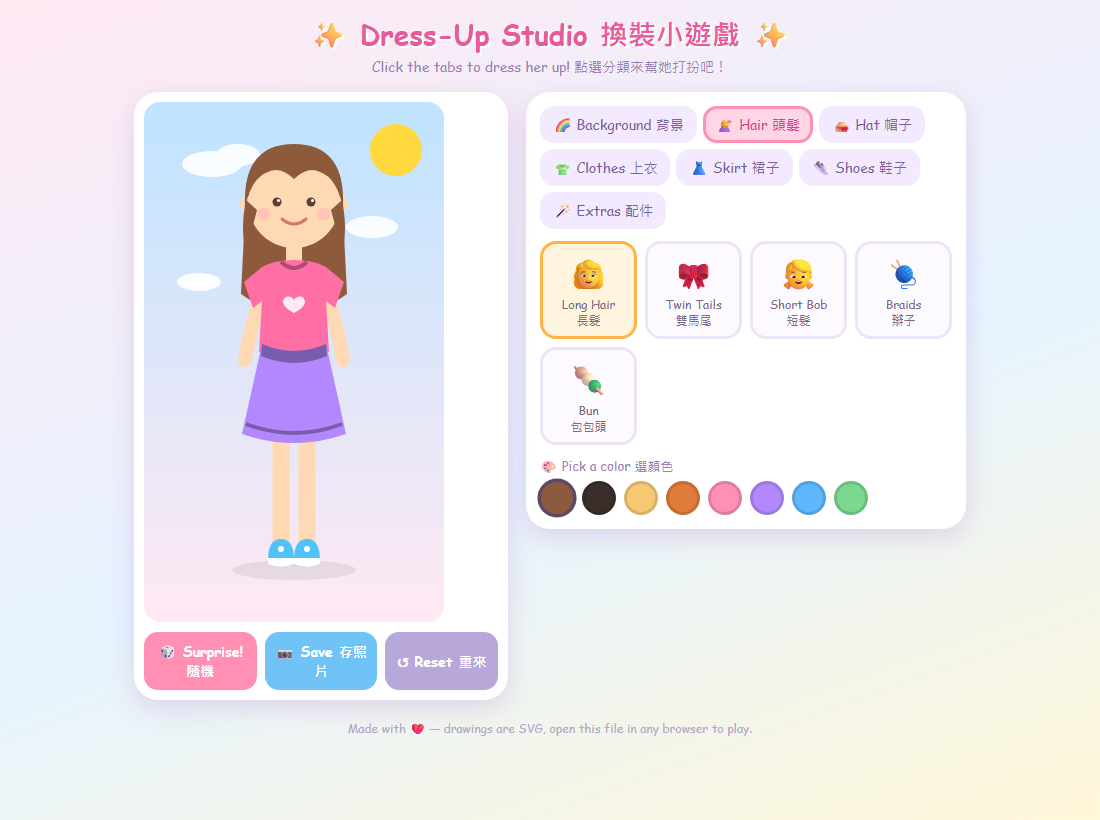
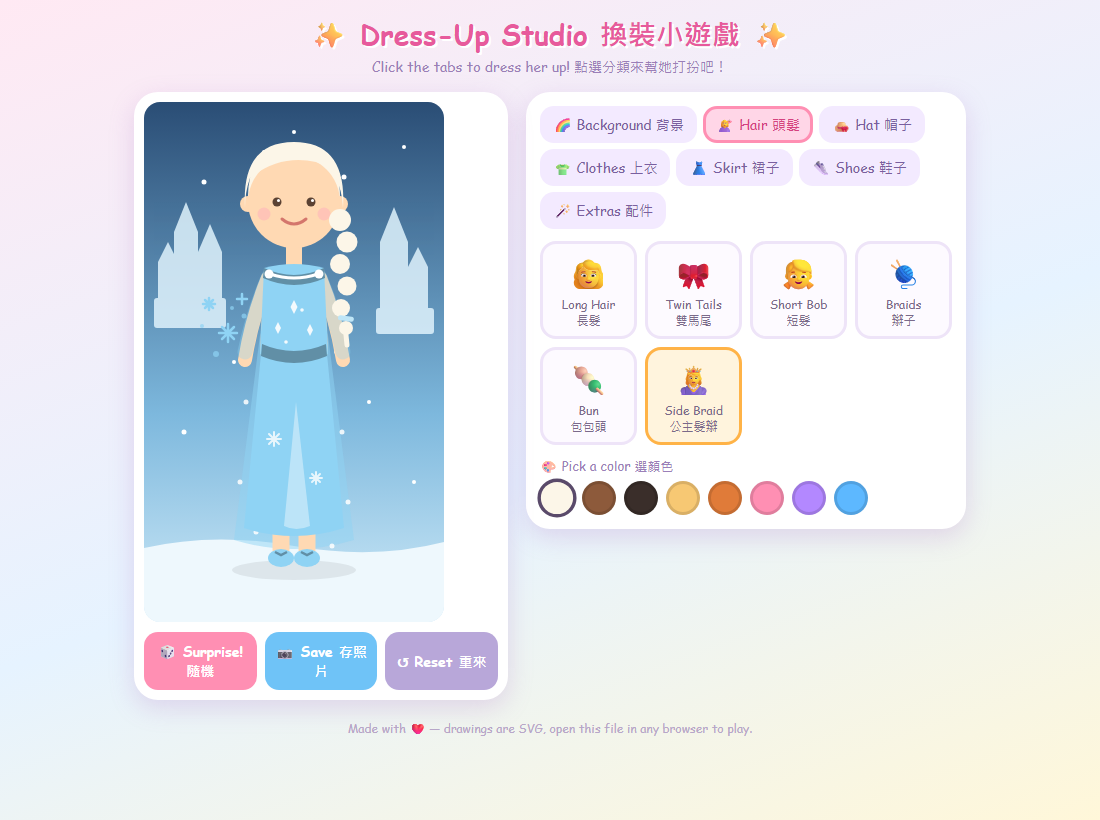
Add Ice Queen (Elsa-style) outfit set and make it the default look
New items: Side Braid hair, Ice Queen top, Ice Gown skirt, Snow Cape,
Ice Magic accessory, and Ice Castle background. Adds ice blue and
platinum to the color palettes.

diff --git a/dress-up-studio/index.html b/dress-up-studio/index.html
@@ -201,8 +201,8 @@ const BANGS = `
   <path d="M102 98 Q96 128 102 150 L113 108 Z" fill="{{c}}"/>
   <path d="M198 98 Q204 128 198 150 L187 108 Z" fill="{{c}}"/>`;
 
-const HAIR_COLORS = ['#8d5a3b','#3a2e2a','#f7c873','#e07b39','#ff8fb3','#b388ff','#5db8ff','#7bd88f'];
-const COLORS = ['#ff6fa5','#ff9f43','#ffd93d','#7bd88f','#4fc3f7','#b388ff','#f06292','#5c6bc0','#ffffff','#37474f'];
+const HAIR_COLORS = ['#fcf6e8','#8d5a3b','#3a2e2a','#f7c873','#e07b39','#ff8fb3','#b388ff','#5db8ff'];
+const COLORS = ['#8fd3f4','#ff6fa5','#ff9f43','#ffd93d','#7bd88f','#4fc3f7','#b388ff','#f06292','#5c6bc0','#ffffff','#37474f'];
 
 const CATS = [
   {
@@ -260,6 +260,26 @@ const CATS = [
         <g><circle cx="70" cy="130" r="4" fill="#ff6fa5"/><circle cx="240" cy="110" r="4" fill="#7bd88f"/>
         <circle cx="35" cy="220" r="4" fill="#ffd93d"/><circle cx="268" cy="230" r="4" fill="#ff9f43"/>
         <circle cx="60" cy="320" r="4" fill="#b388ff"/><circle cx="245" cy="300" r="4" fill="#4fc3f7"/></g>` },
+      { name: 'Ice Castle', zh: '冰雪城堡', emoji: '🏰', svg: `
+        <defs><linearGradient id="bgIce" x1="0" y1="0" x2="0" y2="1">
+          <stop offset="0" stop-color="#2a4d75"/><stop offset=".6" stop-color="#7db8dd"/><stop offset="1" stop-color="#cfeaf8"/>
+        </linearGradient></defs>
+        <rect width="300" height="520" fill="url(#bgIce)"/>
+        <g fill="#dff2fc" opacity=".85">
+          <path d="M30 200 L30 130 L42 100 L54 130 L54 200 Z"/>
+          <path d="M54 200 L54 150 L66 122 L78 150 L78 200 Z"/>
+          <path d="M14 200 L14 160 L24 140 L34 160 L34 200 Z"/>
+          <rect x="10" y="196" width="72" height="30" rx="3"/>
+          <path d="M236 210 L236 140 L250 105 L264 140 L264 210 Z"/>
+          <path d="M264 210 L264 165 L274 145 L284 165 L284 210 Z"/>
+          <rect x="232" y="206" width="58" height="26" rx="3"/>
+        </g>
+        <path d="M0 446 Q70 430 150 444 Q230 458 300 440 L300 520 L0 520 Z" fill="#eef8fd"/>
+        <g fill="#ffffff">
+          <circle cx="60" cy="80" r="2.5"/><circle cx="120" cy="50" r="2"/><circle cx="200" cy="75" r="2.5"/>
+          <circle cx="260" cy="45" r="2"/><circle cx="90" cy="260" r="2"/><circle cx="225" cy="300" r="2"/>
+          <circle cx="40" cy="330" r="2.5"/><circle cx="270" cy="380" r="2"/><circle cx="150" cy="30" r="2"/>
+        </g>` },
     ]
   },
   {
@@ -286,6 +306,15 @@ const CATS = [
         <path d="M104 95 Q104 44 150 44 Q196 44 196 95 Q150 116 104 95 Z" fill="{{c}}"/>
         <circle cx="150" cy="33" r="19" fill="{{c}}"/>
         <rect x="137" y="44" width="26" height="7" rx="3.5" fill="#ff5d8f"/>` },
+      { name: 'Side Braid', zh: '公主髮辮', emoji: '👸', svg: `
+        <path d="M101 106 Q97 40 150 40 Q203 40 199 106 Q197 68 172 60 Q136 52 106 76 Q101 90 101 106 Z" fill="{{c}}"/>
+        <g fill="{{c}}">
+          <circle cx="196" cy="118" r="11"/><circle cx="203" cy="140" r="10.5"/><circle cx="196" cy="162" r="10"/>
+          <circle cx="203" cy="184" r="9.5"/><circle cx="197" cy="206" r="9"/><circle cx="202" cy="226" r="7"/>
+        </g>
+        <path d="M202 233 L203 243" stroke="{{c}}" stroke-width="5" stroke-linecap="round"/>
+        <rect x="194" y="214" width="16" height="5" rx="2.5" fill="#bfe6f7" transform="rotate(8 202 216)"/>`, back: `
+        <path d="M104 95 Q104 44 150 44 Q196 44 196 95 Q150 116 104 95 Z" fill="{{c}}"/>` },
     ]
   },
   {
@@ -354,6 +383,17 @@ const CATS = [
         <path d="M117 238 Q150 250 183 238 L183 246 Q174 257 163 248 Q156 258 150 248 Q144 258 137 248 Q126 257 117 246 Z" fill="{{c}}"/>
         <circle cx="150" cy="190" r="2.5" fill="{{cd}}"/><circle cx="150" cy="206" r="2.5" fill="{{cd}}"/><circle cx="150" cy="222" r="2.5" fill="{{cd}}"/>
         <path d="M141 164 L150 170 L159 164" stroke="{{cd}}" stroke-width="3.5" fill="none" stroke-linecap="round"/>` },
+      { name: 'Ice Queen', zh: '冰雪女王', emoji: '❄️', svg: `
+        <path d="M124 176 Q108 215 101 250" stroke="{{c}}" stroke-width="15" fill="none" stroke-linecap="round" opacity=".35"/>
+        <path d="M176 176 Q192 215 199 250" stroke="{{c}}" stroke-width="15" fill="none" stroke-linecap="round" opacity=".35"/>
+        <path d="M120 166 Q150 158 180 166 L184 252 Q150 264 116 252 Z" fill="{{c}}"/>
+        <path d="M120 166 Q150 180 180 166 L181 176 Q150 190 119 176 Z" fill="{{cd}}"/>
+        <g fill="#fff" opacity=".9">
+          <path d="M150 198 l3.5 7 -3.5 7 -3.5-7 z"/>
+          <path d="M134 220 l3 6 -3 6 -3-6 z"/>
+          <path d="M166 222 l3 6 -3 6 -3-6 z"/>
+          <circle cx="142" cy="240" r="1.8"/><circle cx="158" cy="208" r="1.8"/>
+        </g>` },
     ]
   },
   {
@@ -386,6 +426,14 @@ const CATS = [
         <path d="M118 242 L110 298 Q124 304 139 299 L148 264 L152 264 L161 299 Q176 304 190 298 L182 242 Q150 256 118 242 Z" fill="{{c}}"/>
         <path d="M118 242 Q150 256 182 242 L183 252 Q150 266 117 252 Z" fill="{{cd}}"/>
         <circle cx="150" cy="258" r="3" fill="{{cd}}"/>` },
+      { name: 'Ice Gown', zh: '冰雪長裙', emoji: '💙', svg: `
+        <path d="M118 242 L100 426 Q150 442 200 426 L182 242 Q150 256 118 242 Z" fill="{{c}}"/>
+        <path d="M152 300 L140 424 Q152 430 166 424 Z" fill="#ffffff" opacity=".4"/>
+        <g stroke="#ffffff" stroke-width="2" opacity=".8" fill="none" stroke-linecap="round">
+          <path d="M130 330 L130 344 M123 337 L137 337 M125 332 L135 342 M135 332 L125 342"/>
+          <path d="M172 370 L172 382 M166 376 L178 376 M168 372 L176 380 M176 372 L168 380"/>
+        </g>
+        <path d="M118 242 Q150 256 182 242 L183 254 Q150 268 117 254 Z" fill="{{cd}}"/>` },
     ]
   },
   {
@@ -459,16 +507,41 @@ const CATS = [
             <circle cx="110" cy="210" r="3.5"/><circle cx="190" cy="210" r="3.5"/>
           </g>
         </g>`, svg: `` },
+      { name: 'Snow Cape', zh: '雪花披風', emoji: '🌨️', back: `
+        <path d="M124 170 L176 170 L210 438 Q150 456 90 438 Z" fill="{{c}}" opacity=".5"/>
+        <g fill="#fff" opacity=".85">
+          <circle cx="102" cy="300" r="2.5"/><circle cx="198" cy="330" r="2.5"/><circle cx="96" cy="380" r="2.5"/>
+          <circle cx="204" cy="400" r="2.5"/><circle cx="112" cy="430" r="2.5"/><circle cx="188" cy="444" r="2.5"/>
+          <circle cx="108" cy="240" r="2"/><circle cx="192" cy="250" r="2"/>
+        </g>`, svg: `
+        <path d="M126 172 Q150 180 174 172" stroke="#fff" stroke-width="3" fill="none"/>
+        <circle cx="125" cy="172" r="4.5" fill="#fff"/><circle cx="175" cy="172" r="4.5" fill="#fff"/>` },
+      { name: 'Ice Magic', zh: '冰雪魔法', emoji: '✨', svg: `
+        <g stroke="{{c}}" stroke-width="2.5" fill="none" stroke-linecap="round">
+          <path d="M84 222 L84 240 M75 231 L93 231 M78 225 L90 237 M90 225 L78 237"/>
+          <path d="M65 196 L65 208 M59 202 L71 202 M61 198 L69 206 M69 198 L61 206"/>
+          <path d="M98 192 L98 202 M93 197 L103 197"/>
+        </g>
+        <g fill="{{c}}" opacity=".7">
+          <circle cx="72" cy="252" r="3"/><circle cx="100" cy="214" r="2.5"/><circle cx="58" cy="224" r="2"/><circle cx="88" cy="206" r="2"/>
+        </g>` },
     ]
   },
 ];
 
 // ---------------- game state ----------------
 let state = {};
+// she starts dressed as the Ice Queen ❄️ — press Reset to come back to this look
 function defaultState() {
-  const s = {};
-  for (const c of CATS) s[c.id] = { sel: c.multi ? [] : 0, color: c.def };
-  return s;
+  return {
+    bg:    { sel: 5, color: '#ffffff' },          // Ice Castle
+    hair:  { sel: 5, color: '#fcf6e8' },          // platinum Side Braid
+    hat:   { sel: 0, color: '#ffd93d' },          // no hat
+    top:   { sel: 5, color: '#8fd3f4' },          // Ice Queen top
+    skirt: { sel: 5, color: '#8fd3f4' },          // Ice Gown
+    shoes: { sel: 1, color: '#8fd3f4' },          // ballet flats
+    acc:   { sel: [6, 7], color: '#8fd3f4' },     // Snow Cape + Ice Magic
+  };
 }
 
 let activeCat = 'hair';